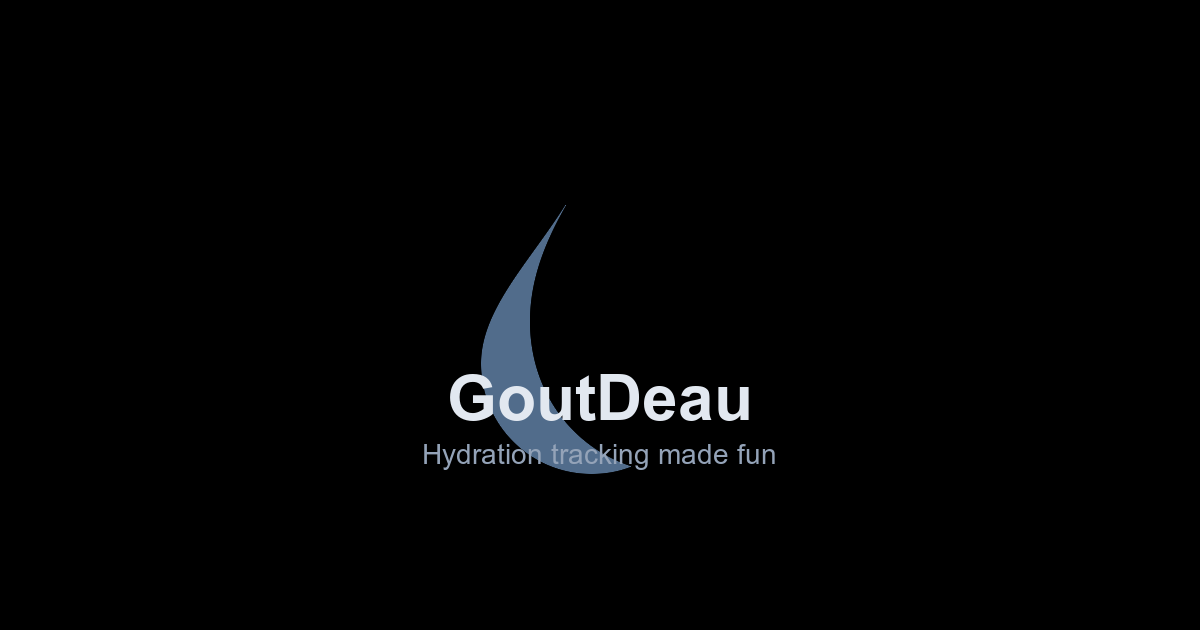
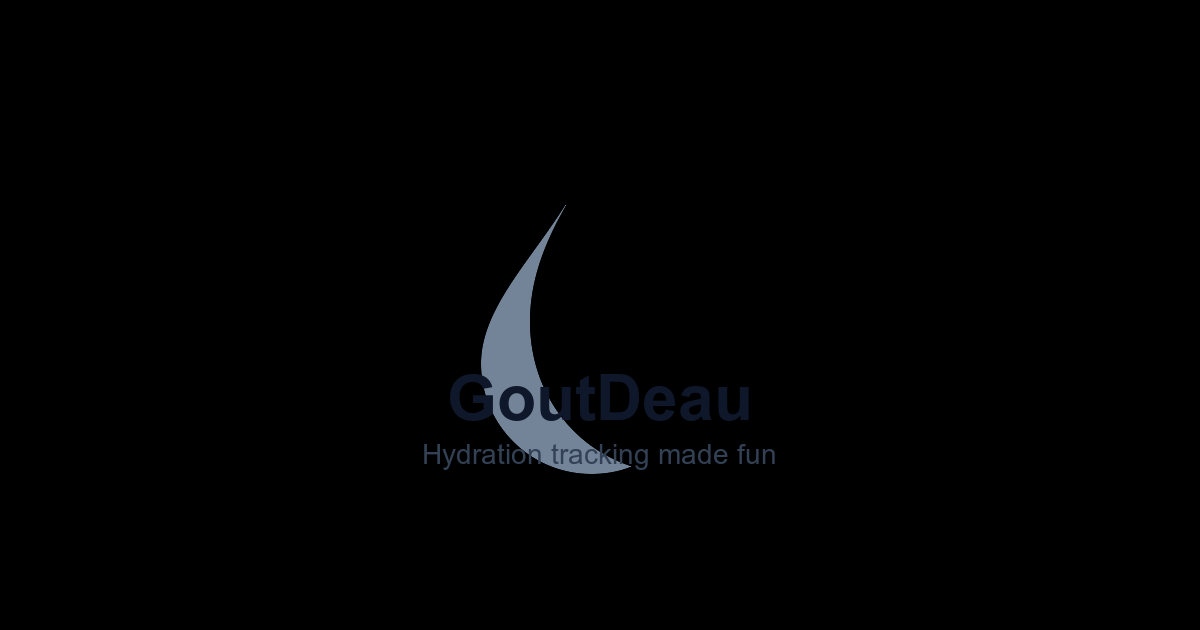
Brighten social card and increase cache busting
- Updated social-card.svg with bright gradient background (light blue)
- Changed dark text to dark slate for visibility on light background
- Regenerated social-card.png with new bright design
- Bumped cache busting to v=3 on all favicon/social URLs
- Reordered favicon links (ico first for better Safari compatibility)

The social card now shows a vibrant blue droplet on a light gradient background.

Changed region(s): [[0.3392, 0.3619, 0.6475, 0.754]]

diff --git a/client/public/index.html b/client/public/index.html
@@ -2,11 +2,11 @@
 <html lang="en">
   <head>
     <meta charset="utf-8" />
-    <!-- Favicons with cache busting -->
-    <link rel="icon" type="image/svg+xml" href="%PUBLIC_URL%/favicon.svg?v=2" />
-    <link rel="icon" type="image/png" sizes="32x32" href="%PUBLIC_URL%/favicon-32x32.png?v=2" />
-    <link rel="icon" type="image/png" sizes="16x16" href="%PUBLIC_URL%/favicon-16x16.png?v=2" />
-    <link rel="shortcut icon" href="%PUBLIC_URL%/favicon.ico?v=2" />
+    <!-- Favicons with aggressive cache busting -->
+    <link rel="icon" type="image/x-icon" href="%PUBLIC_URL%/favicon.ico?v=3" />
+    <link rel="icon" type="image/png" sizes="32x32" href="%PUBLIC_URL%/favicon-32x32.png?v=3" />
+    <link rel="icon" type="image/png" sizes="16x16" href="%PUBLIC_URL%/favicon-16x16.png?v=3" />
+    <link rel="icon" type="image/svg+xml" href="%PUBLIC_URL%/favicon.svg?v=3" />
     <!-- Enhanced viewport meta tag for better mobile display -->
     <meta name="viewport" content="width=device-width, initial-scale=1.0, maximum-scale=1.0, viewport-fit=cover, user-scalable=no" />
     
@@ -32,15 +32,15 @@
     <meta property="og:title" content="GoutDeau - Water Tracking Made Fun" />
     <meta property="og:description" content="Transform your hydration habits with GoutDeau - the gamified water tracking app that makes staying hydrated engaging and rewarding." />
     <meta property="og:type" content="website" />
-    <meta property="og:image" content="%PUBLIC_URL%/social-card.png?v=2" />
+    <meta property="og:image" content="%PUBLIC_URL%/social-card.png?v=3" />
     <meta property="og:image:width" content="1200" />
     <meta property="og:image:height" content="630" />
     <meta name="twitter:card" content="summary_large_image" />
-    <meta name="twitter:image" content="%PUBLIC_URL%/social-card.png?v=2" />
+    <meta name="twitter:image" content="%PUBLIC_URL%/social-card.png?v=3" />
     
     <!-- Apple touch icons for better iOS integration -->
     <!-- Apple touch icon (used by iOS share sheet and home screen) -->
-    <link rel="apple-touch-icon" sizes="180x180" href="%PUBLIC_URL%/apple-touch-icon.png?v=2" />
+    <link rel="apple-touch-icon" sizes="180x180" href="%PUBLIC_URL%/apple-touch-icon.png?v=3" />
     
     <!-- Microsoft tiles -->
     <meta name="msapplication-square150x150logo" content="%PUBLIC_URL%/logo192.png" />
